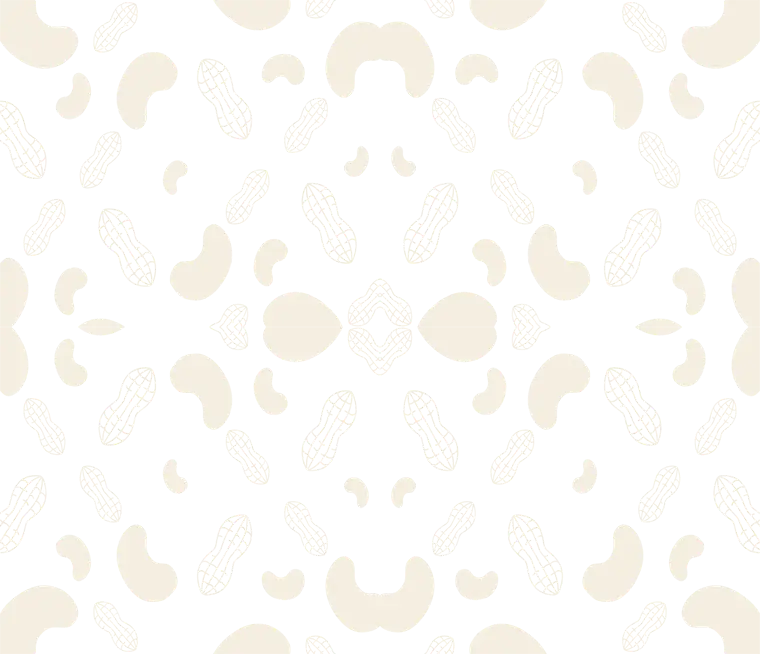
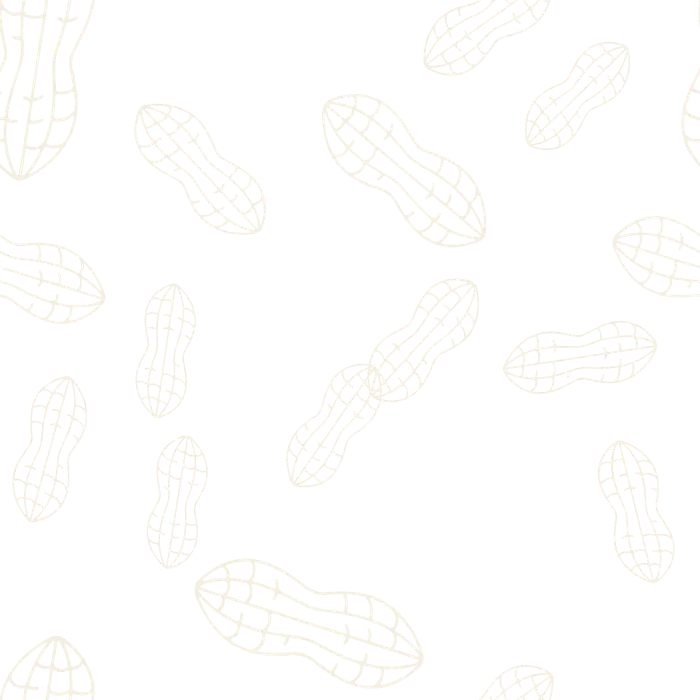
Ajustes: patrón legible, fade del hero, copy de Fundador y espaciados
Patrón de maníes — rehecho, se veía mal por dos motivos medibles:
- El 81% de la tinta del arte original son los granos rellenos y solo el
  19% las cáscaras de línea, así que a opacidad de marca de agua se veían
  borrones y no maníes. Ahora el tile usa solo las cáscaras.
- El tile espejado dejaba simetrías evidentes (mariposas, "V"). Lo
  reemplazo por un tile propio: las cáscaras completas se colocan
  salteadas con envolvente en los bordes, así calza de verdad sin
  espejar. Se descartan las cáscaras cortadas por el borde del arte.
- Sube la opacidad (la línea necesita más presencia que un relleno) y el
  tamaño del tile, para que el maní se reconozca.

Hero: el degradé de salida baja de h-28/36 a h-16/24 y el bloque suma
pb en desktop, así el botón Comprar deja de quedar tapado.

Fundador: vuelve el copy anterior (dos líneas) en vez de las tres nuevas,
y el tercer chip recupera su texto original.

Testimonios: saco el contador "n / 27" del carrusel, achico la pista de
420 a 380 y junto el botón con Preguntas frecuentes (había ~136px de
aire entre ambos, ahora ~70).

diff --git a/src/components/carrusel-capturas.tsx b/src/components/carrusel-capturas.tsx
@@ -7,10 +7,9 @@ import type { Captura } from "@/components/testimonios";
 
 /**
  * Carrusel de capturas para mobile. El scroll-snap solo no comunica que hay
- * más contenido al costado, así que suma flechas y un indicador de posición.
- * Las flechas además son el equivalente accesible del gesto de deslizar:
- * un carrusel que solo responde al swipe deja afuera a quien navega por
- * teclado.
+ * más contenido al costado, así que suma flechas a los lados. Las flechas
+ * además son el equivalente accesible del gesto de deslizar: un carrusel que
+ * solo responde al swipe deja afuera a quien navega por teclado.
  */
 export function CarruselCapturas({ capturas }: { capturas: readonly Captura[] }) {
   const pistaRef = useRef<HTMLDivElement>(null);
@@ -67,7 +66,7 @@ export function CarruselCapturas({ capturas }: { capturas: readonly Captura[] })
         {capturas.map((c) => (
           <div
             key={c.file}
-            className="flex h-[420px] w-[84vw] shrink-0 snap-center items-center justify-center"
+            className="flex h-[380px] w-[84vw] shrink-0 snap-center items-center justify-center"
           >
             <Image
               src={`/testimonios/${c.file}`}
@@ -88,10 +87,6 @@ export function CarruselCapturas({ capturas }: { capturas: readonly Captura[] })
         deshabilitada={primera}
       />
       <Flecha lado="derecha" onClick={() => irA(indice + 1)} deshabilitada={ultima} />
-
-      <p className="mt-3 text-center text-xs font-semibold uppercase tracking-[0.18em] text-muted">
-        {indice + 1} / {capturas.length}
-      </p>
     </div>
   );
 }
@@ -112,7 +107,7 @@ function Flecha({
       onClick={onClick}
       disabled={deshabilitada}
       aria-label={lado === "izquierda" ? "Ver la captura anterior" : "Ver la captura siguiente"}
-      className={`absolute top-[190px] z-10 flex h-11 w-11 items-center justify-center rounded-full border border-line bg-bg-2/90 text-cream shadow-[0_6px_20px_-8px_rgba(36,13,8,0.5)] backdrop-blur-sm transition-all duration-300 ease-[cubic-bezier(0.16,1,0.3,1)] active:scale-90 disabled:pointer-events-none disabled:opacity-0 ${
+      className={`absolute top-[170px] z-10 flex h-11 w-11 items-center justify-center rounded-full border border-line bg-bg-2/90 text-cream shadow-[0_6px_20px_-8px_rgba(36,13,8,0.5)] backdrop-blur-sm transition-all duration-300 ease-[cubic-bezier(0.16,1,0.3,1)] active:scale-90 disabled:pointer-events-none disabled:opacity-0 ${
         lado === "izquierda" ? "-left-1" : "-right-1"
       }`}
     >

diff --git a/src/components/ticket-fundador.tsx b/src/components/ticket-fundador.tsx
@@ -8,7 +8,7 @@ import { PuenteColor } from "@/components/puente-color";
 const BENEFICIOS = [
   "Accesos anticipados.",
   "Beneficios exclusivos.",
-  "Cosas que todavía no puedo contar.",
+  "Y cosas que voy a ir revelando con el tiempo.",
 ];
 
 export function TicketFundador() {
@@ -22,7 +22,7 @@ export function TicketFundador() {
       <PuenteColor desde="bg" posicion="arriba" altura={200} />
       {/* Maníes en crema — el color de la sección de arriba — densos contra
           ese mismo borde, así el patrón continúa cruzando la transición. */}
-      <PatronMani variante="crema" borde="arriba" opacidad={0.06} />
+      <PatronMani variante="crema" borde="arriba" opacidad={0.13} />
 
       <div className="relative mx-auto max-w-2xl text-center">
         <Reveal>
@@ -61,22 +61,16 @@ export function TicketFundador() {
           </h3>
         </Reveal>
 
-        {/* Tres líneas, con el peso creciendo hacia la última: la jerarquía
-            la marca la negrita y el tamaño, no bajarle opacidad al texto. */}
-        <div className="mx-auto mt-10 max-w-xl space-y-4">
+        {/* La jerarquía la marca el peso y el tamaño, no bajarle opacidad. */}
+        <div className="mx-auto mt-10 max-w-xl space-y-5">
           <Reveal delay={0.08}>
             <p className="text-lg leading-relaxed text-paper/85">
-              Significa haber estado desde el principio.
+              Significa haber confiado cuando todo esto recién empezaba.
             </p>
           </Reveal>
           <Reveal delay={0.14}>
-            <p className="text-lg leading-relaxed text-paper/85">
-              Cuando confiar todavía era un riesgo.
-            </p>
-          </Reveal>
-          <Reveal delay={0.2}>
             <p className="font-display text-2xl font-semibold text-gold-bright sm:text-3xl">
-              Y eso, con el tiempo, vale.
+              Y esa confianza va a tener recompensas.
             </p>
           </Reveal>
         </div>

diff --git a/src/components/patron-mani.tsx b/src/components/patron-mani.tsx
@@ -1,9 +1,16 @@
 /**
  * Patrón de maníes de la tapa del frasco, usado como marca de agua de fondo.
  *
- * El tile es un espejado 2×2 del arte original: el arte suelto no calzaba
- * consigo mismo (los bordes opuestos no coinciden), así que espejarlo
- * garantiza repetición sin costuras.
+ * El tile está armado a partir de las cáscaras sueltas del arte original,
+ * por dos motivos:
+ *
+ * 1. En el arte completo, el 81% de la tinta son los granos rellenos y solo
+ *    el 19% las cáscaras de línea. A opacidad de marca de agua se veían los
+ *    borrones y no los maníes, así que el patrón usa solo las cáscaras.
+ * 2. Repetir el arte espejado dejaba simetrías evidentes (mariposas, "V").
+ *    Acá las cáscaras se colocan salteadas con envolvente en los bordes: lo
+ *    que sale por un lado entra por el opuesto, así el tile calza de verdad
+ *    sin necesidad de espejar.
  *
  * `borde` controla dónde el patrón se ve más denso. Poniéndolo pegado al
  * límite que la sección comparte con su vecina, el dibujo "cruza" la
@@ -24,8 +31,8 @@ const MASCARA = {
 export function PatronMani({
   variante,
   borde = "ambos",
-  opacidad = 0.08,
-  tamano = 360,
+  opacidad = 0.16,
+  tamano = 460,
 }: {
   variante: keyof typeof FUENTE;
   borde?: keyof typeof MASCARA;

diff --git a/src/components/intro.tsx b/src/components/intro.tsx
@@ -56,7 +56,8 @@ export function Intro() {
 
       {/* Columna central: logo + textos + CTA, en un solo bloque compacto,
           todo sobre el mismo eje vertical */}
-      <div className="relative z-10 flex flex-1 flex-col items-center justify-start px-6 pt-20 sm:justify-center sm:py-4">
+      {/* pb en desktop: deja al botón despegado del degradé de salida. */}
+      <div className="relative z-10 flex flex-1 flex-col items-center justify-start px-6 pt-20 sm:justify-center sm:pb-28 sm:pt-4">
         <motion.div
           initial={{ opacity: 0, y: 14 }}
           animate={{ opacity: 1, y: 0 }}
@@ -99,7 +100,7 @@ export function Intro() {
           siguiente, así el corte foto → color no queda seco. */}
       <div
         aria-hidden
-        className="pointer-events-none absolute inset-x-0 bottom-0 z-20 h-28 bg-gradient-to-b from-transparent to-bg sm:h-36"
+        className="pointer-events-none absolute inset-x-0 bottom-0 z-20 h-16 bg-gradient-to-b from-transparent to-bg sm:h-24"
       />
 
       {/* Ilustración de tapa (línea blanca), de acento en la esquina — solo

diff --git a/src/components/testimonios.tsx b/src/components/testimonios.tsx
@@ -40,7 +40,7 @@ const CAPTURAS: readonly Captura[] = [
 
 export function Testimonios() {
   return (
-    <section id="opiniones" className="relative overflow-hidden bg-bg-2 px-6 pb-28 pt-36">
+    <section id="opiniones" className="relative overflow-hidden bg-bg-2 px-6 pb-6 pt-36">
       {/* Salida del marrón de Fundador hacia el crema, sin corte seco. */}
       <PuenteColor desde="dark" posicion="arriba" altura={180} />
 
@@ -83,7 +83,7 @@ export function Testimonios() {
         </div>
 
         <Reveal delay={0.2}>
-          <div className="mt-16 flex justify-center">
+          <div className="mt-4 flex justify-center">
             <BotonComprar label="Yo también quiero" />
           </div>
         </Reveal>

diff --git a/src/components/comprar.tsx b/src/components/comprar.tsx
@@ -24,7 +24,7 @@ export function Comprar() {
     <section id="comprar" className="relative overflow-hidden px-6 pb-12 pt-6 sm:py-12">
       {/* Maníes en marrón — el color de la sección de abajo — densos hacia el
           borde inferior, para que el patrón cruce hacia la sección oscura. */}
-      <PatronMani variante="marron" borde="abajo" opacidad={0.07} />
+      <PatronMani variante="marron" borde="abajo" opacidad={0.17} />
 
       <div className="relative mx-auto grid max-w-5xl items-center gap-14 lg:grid-cols-2">
         <Reveal className="flex justify-center">

diff --git a/src/components/faq.tsx b/src/components/faq.tsx
@@ -63,9 +63,9 @@ const PREGUNTAS = [
 
 export function Faq() {
   return (
-    <section id="faq" className="relative overflow-hidden px-6 pb-24 pt-32">
+    <section id="faq" className="relative overflow-hidden px-6 pb-24 pt-12">
       {/* Sin borde duro: el crema de Testimonios se disuelve en el beige. */}
-      <PuenteColor desde="bg-2" posicion="arriba" altura={130} />
+      <PuenteColor desde="bg-2" posicion="arriba" altura={90} />
 
       <div className="relative mx-auto max-w-3xl">
         <Reveal>
